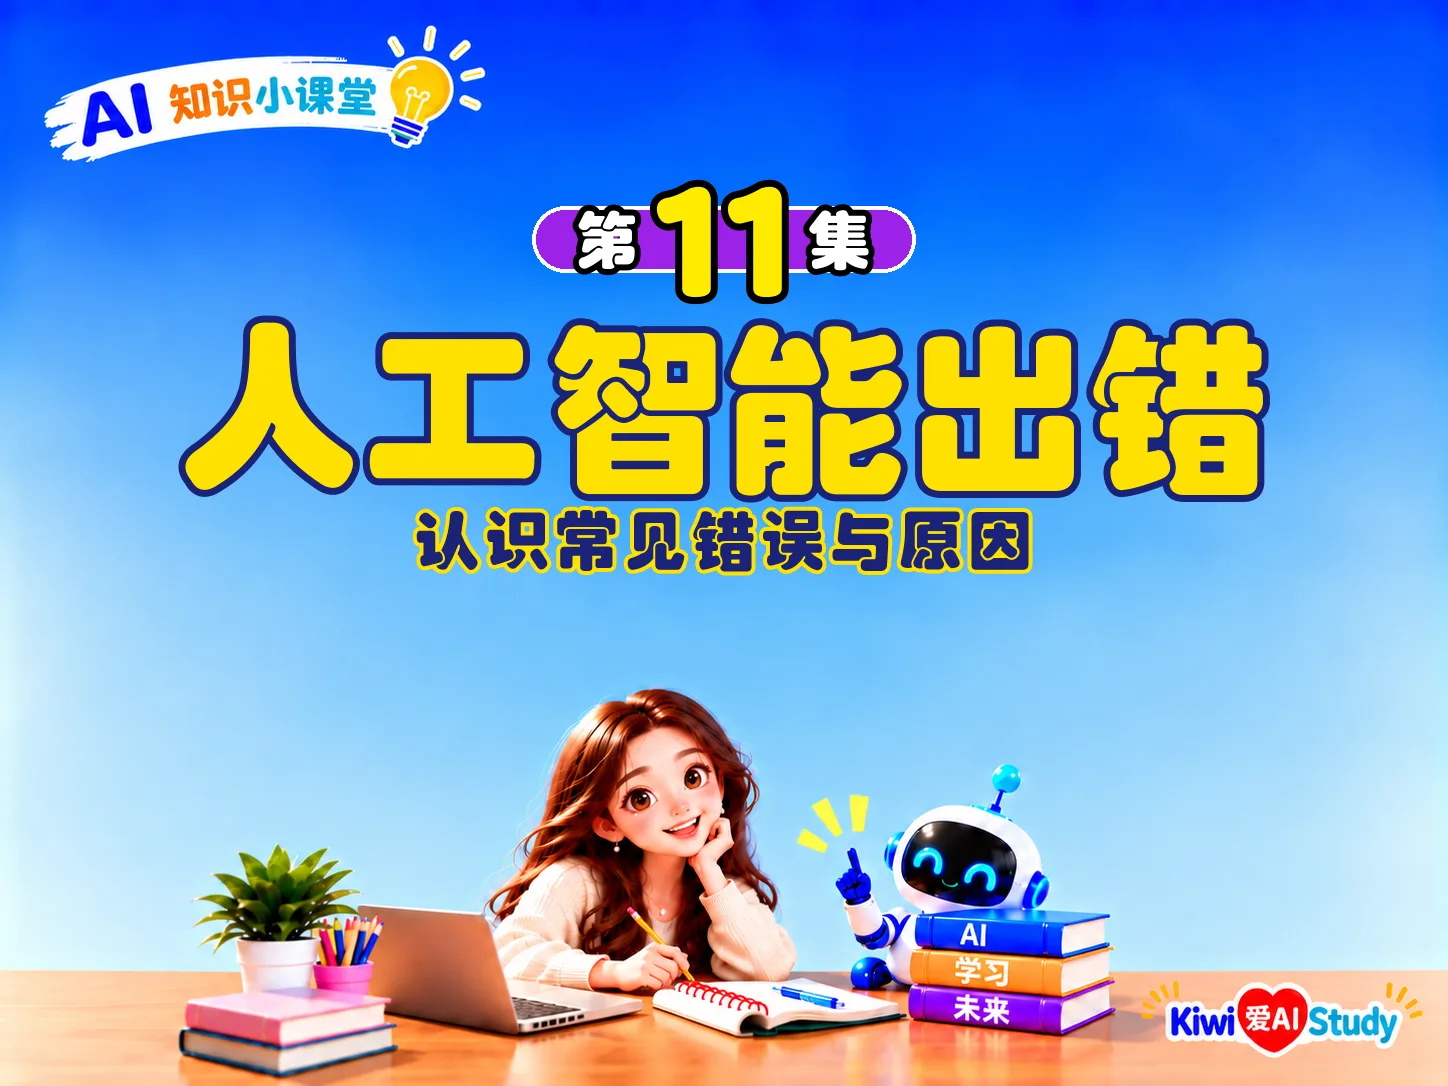
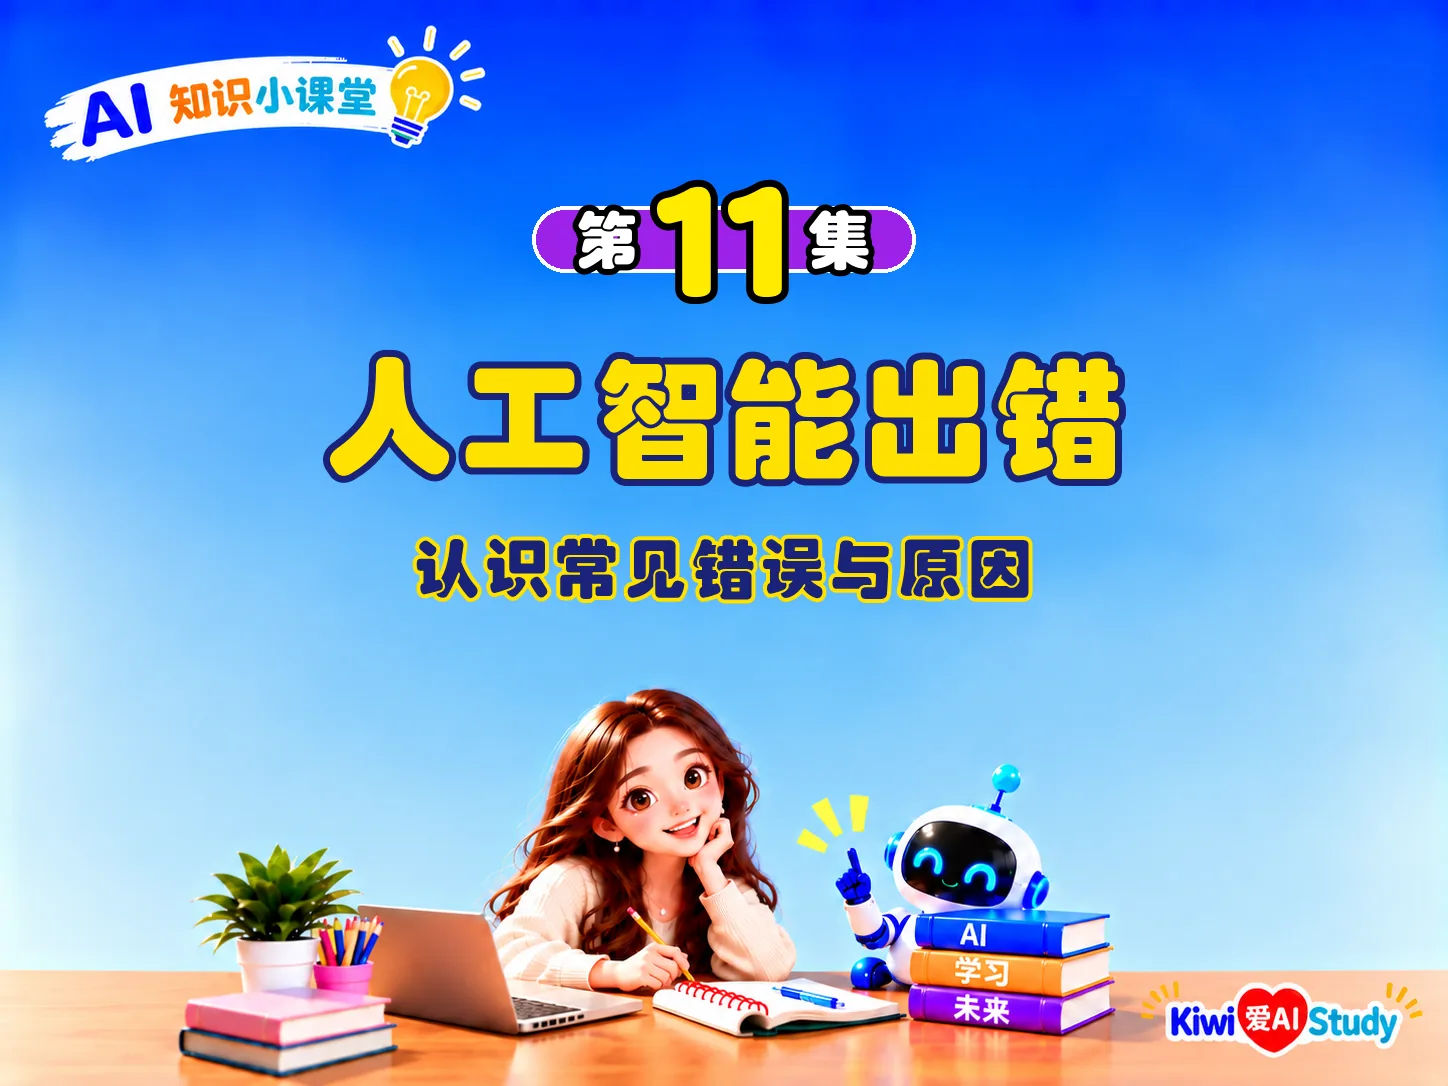
changed the ai cover cn title and subtitle room space between them

Changed region(s): [[0.1243, 0.2735, 0.9012, 0.5773]]

diff --git a/local/_run_missing_covers_3x4_16x9.py b/local/_run_missing_covers_3x4_16x9.py
@@ -1,0 +1,92 @@
+"""Generate missing cn/en 3x4 and 16x9 covers for episodes 010–015 (keep existing 4x3)."""
+from __future__ import annotations
+
+import subprocess
+import sys
+from pathlib import Path
+
+MYAI = Path(r"D:\YuanSync\Mirror\MyAI")
+STUDIO = MYAI / "ai-learning-studio"
+ROOT = Path(r"G:\02-MyBackup2Drive\04 AI-Learning-Studio")
+BASES = STUDIO / "assets" / "cover-bases"
+SCRIPTS = MYAI / "skills" / "create-covers" / "scripts"
+
+EPISODES = (10, 11, 12, 14, 15)
+MISSING_ASPECTS = ("cn-3x4", "en-3x4", "cn-16x9", "en-16x9")
+
+
+def run(cmd: list[str]) -> None:
+    print(">", " ".join(str(c) for c in cmd))
+    subprocess.run(cmd, check=True)
+
+
+def read_meta(ep: int, key: str) -> str:
+    p = ROOT / f"episodes/episode-{ep:03d}/4-metadata/eps{ep:03d}_{key}.txt"
+    return p.read_text(encoding="utf-8").strip()
+
+
+for ep in EPISODES:
+    nnn = f"{ep:03d}"
+    out_dir = ROOT / f"episodes/episode-{nnn}/2-cover"
+    title_cn = read_meta(ep, "cover_title_cn")
+    title_en = read_meta(ep, "cover_title_en")
+    sub_cn = read_meta(ep, "cover_subtitle_cn")
+    sub_en = read_meta(ep, "cover_subtitle_en")
+
+    jobs: list[tuple[str, str, str, str, Path]] = []
+
+    for aspect in MISSING_ASPECTS:
+        lang, asp = aspect.split("-", 1)
+        output = out_dir / f"ai-learning-studio-episode-{nnn}-{lang}-{asp}.png"
+        if output.is_file():
+            print("skip exists", output.name)
+            continue
+        title = title_cn if lang == "cn" else title_en
+        subtitle = sub_cn if lang == "cn" else sub_en
+        base = BASES / f"ai-learning-studio-base-{lang}-{asp}.png"
+        layout = BASES / f"ai-learning-studio-base-{lang}-{asp}.layout.json"
+        jobs.append((lang, asp, title, subtitle, output))
+
+    for lang, asp, title, subtitle, output in jobs:
+        if lang == "cn" and asp == "3x4":
+            run(
+                [
+                    sys.executable,
+                    str(SCRIPTS / "compose_cn_3x4.py"),
+                    "--base",
+                    str(base := BASES / f"ai-learning-studio-base-cn-3x4.png"),
+                    "--layout",
+                    str(BASES / "ai-learning-studio-base-cn-3x4.layout.json"),
+                    "--episode",
+                    str(ep),
+                    "--title",
+                    title,
+                    "--subtitle",
+                    subtitle,
+                    "--output",
+                    str(output),
+                ]
+            )
+        else:
+            run(
+                [
+                    sys.executable,
+                    str(SCRIPTS / "compose_cover.py"),
+                    "--base",
+                    str(BASES / f"ai-learning-studio-base-{lang}-{asp}.png"),
+                    "--layout",
+                    str(BASES / f"ai-learning-studio-base-{lang}-{asp}.layout.json"),
+                    "--lang",
+                    lang,
+                    "--episode",
+                    str(ep),
+                    "--title",
+                    title,
+                    "--subtitle",
+                    subtitle,
+                    "--output",
+                    str(output),
+                ]
+            )
+
+print("all done")

diff --git a/local/_regen_cn_4x3_10_15.py b/local/_regen_cn_4x3_10_15.py
@@ -1,0 +1,63 @@
+"""Regenerate CN 4x3 covers eps 10-15 after compose_cn_4x3 layout fix."""
+from __future__ import annotations
+
+import shutil
+import subprocess
+import sys
+from datetime import datetime
+from pathlib import Path
+
+from PIL import Image
+
+MYAI = Path(r"D:\YuanSync\Mirror\MyAI")
+ROOT = Path(r"G:\02-MyBackup2Drive\04 AI-Learning-Studio")
+WEBSITE = Path(r"D:\YuanSync\Mirror\MyAI\kiwi-ai-study")
+BASES = MYAI / "ai-learning-studio" / "assets" / "cover-bases"
+SCRIPT = MYAI / "skills" / "create-covers" / "scripts" / "compose_cn_4x3.py"
+
+for ep in range(10, 16):
+    nnn = f"{ep:03d}"
+    meta = ROOT / f"episodes/episode-{nnn}/4-metadata"
+    out_dir = ROOT / f"episodes/episode-{nnn}/2-cover"
+    arch = out_dir / "archive"
+    arch.mkdir(parents=True, exist_ok=True)
+    out = out_dir / f"ai-learning-studio-episode-{nnn}-cn-4x3.png"
+    if out.is_file():
+        dest = arch / f"{out.stem}_compose-fix_{datetime.now():%Y%m%d%H%M%S}.png"
+        shutil.move(out, dest)
+        print("archived", dest.name)
+    title = (meta / f"eps{nnn}_cover_title_cn.txt").read_text(encoding="utf-8").strip()
+    subtitle = (meta / f"eps{nnn}_cover_subtitle_cn.txt").read_text(encoding="utf-8").strip()
+    subprocess.run(
+        [
+            sys.executable,
+            str(SCRIPT),
+            "--base",
+            str(BASES / "ai-learning-studio-base-cn-4x3.png"),
+            "--layout",
+            str(BASES / "ai-learning-studio-base-cn-4x3.layout.json"),
+            "--episode",
+            str(ep),
+            "--title",
+            title,
+            "--subtitle",
+            subtitle,
+            "--output",
+            str(out),
+        ],
+        check=True,
+    )
+    canonical = WEBSITE / "ai" / "images" / f"ai-learning-studio-episode-{nnn}-cn-4x3.webp"
+    if canonical.is_file():
+        n = 1
+        while True:
+            bak = WEBSITE / "ai" / "images" / f"ai-learning-studio-episode-{nnn}-cn-4x3-{n:03d}.webp"
+            if not bak.is_file():
+                shutil.move(canonical, bak)
+                print("webp backup", bak.name)
+                break
+            n += 1
+    Image.open(out).convert("RGB").save(canonical, format="WEBP", quality=82, method=6)
+    print("webp", canonical, canonical.stat().st_size)
+
+print("done")
